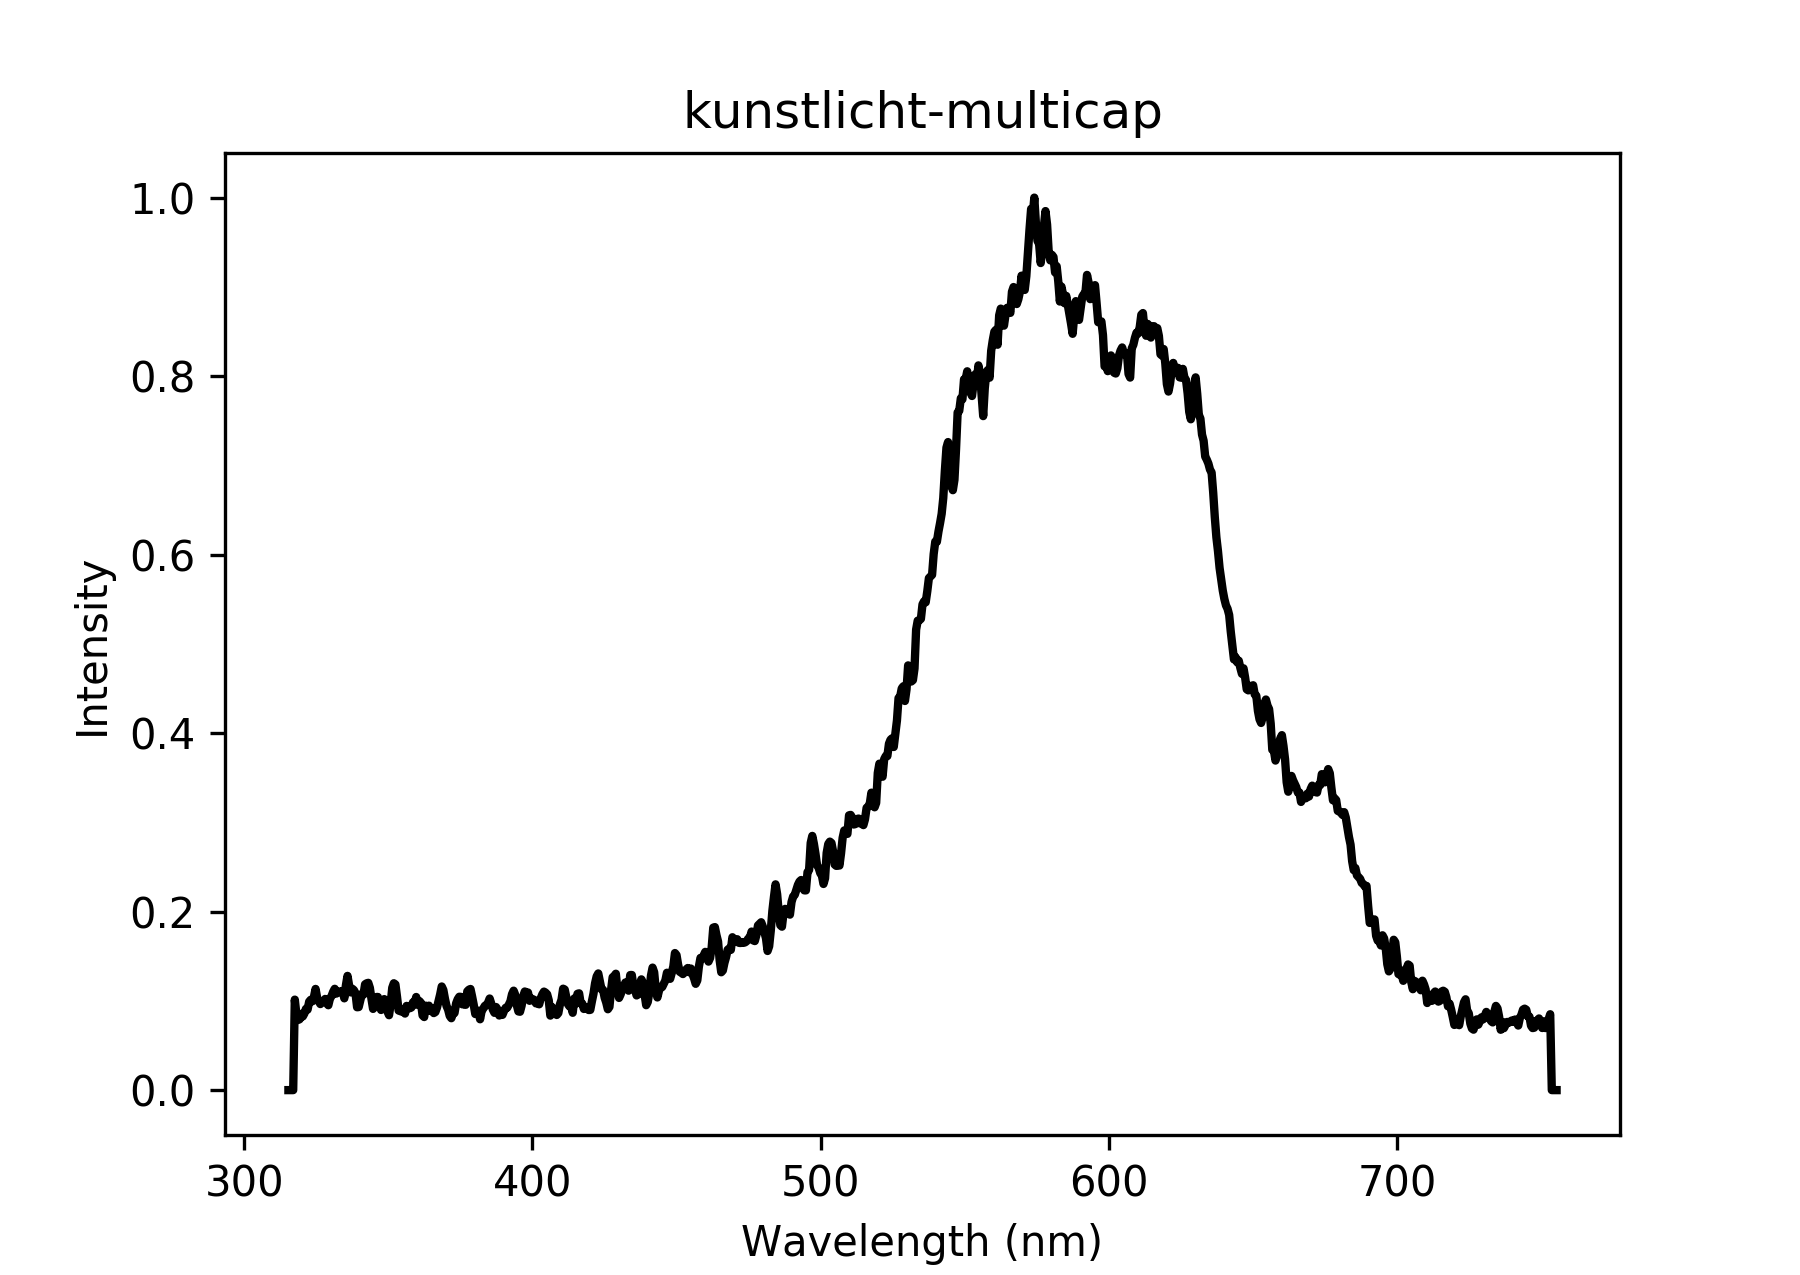
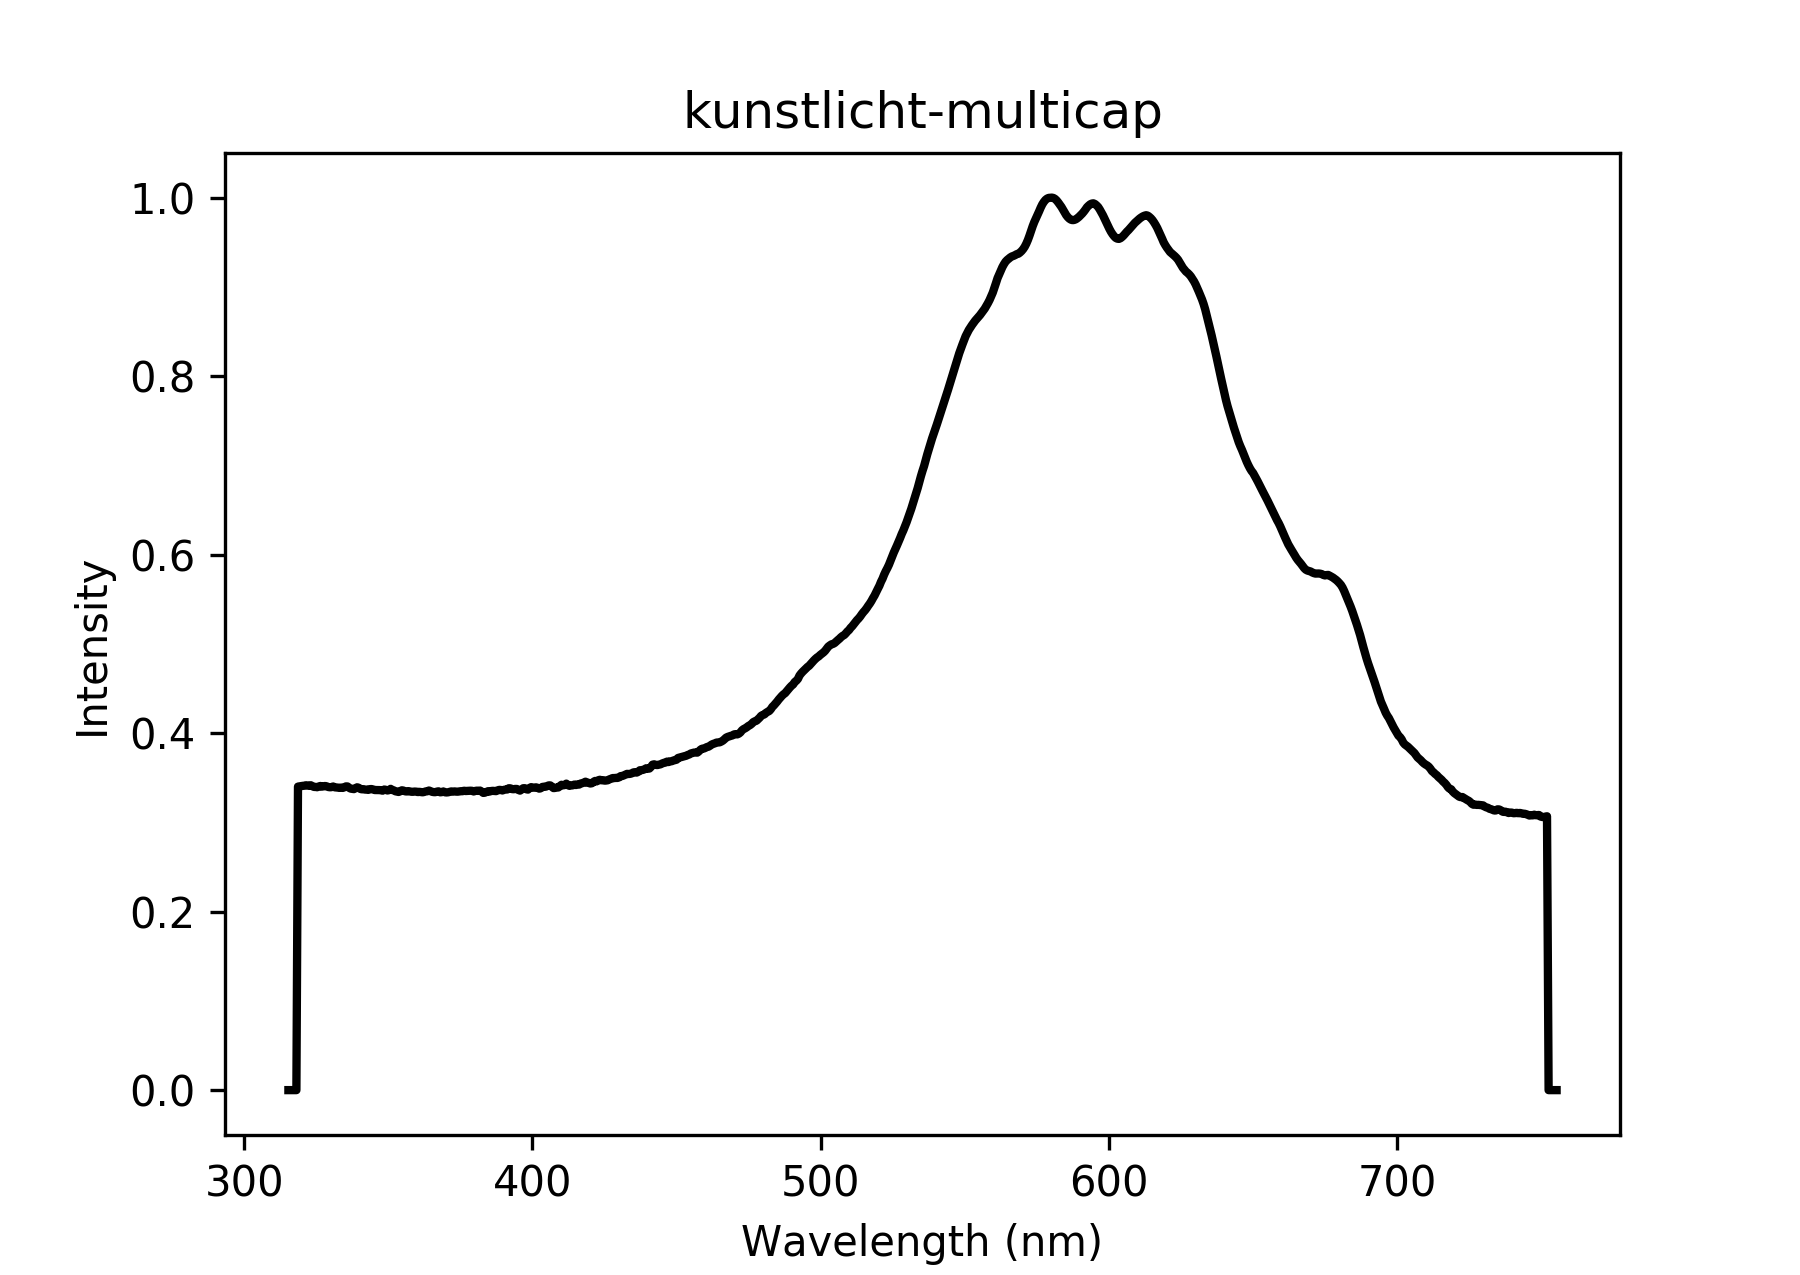
fized merge bug

diff --git a/_painter.py b/_painter.py
@@ -52,7 +52,7 @@ class Painter:
         violet = [0, 0, 350, 470] # actually red
         blue = [0, 0, 483, 590]
         green = [420, 497, 608, 710]
-        red = [520, 612, 780, 0]
+        red = [520, 612, 780, 1200]
 
         R = self._getValue(wavelength, violet) + self._getValue(wavelength, red)
         G = self._getValue(wavelength, green)
@@ -61,7 +61,7 @@ class Painter:
         # general intensity correction
         # lowintensity -> 1 -> 1 -> lowintensity
         lowintensity = 0.3
-        intensity = [350, 420, 680, 780]
+        intensity = [300, 400, 700, 830]
         correction = self._getIntensity(wavelength, intensity, lowintensity)
 
         # color correction for non linerarities

diff --git a/_spectrum.py b/_spectrum.py
@@ -22,10 +22,14 @@ class Spectrum:
 
     def setSpectrumimg(self, img):
         self.dirty = True
-        self.spectrumimg = img
+        height, width = img.shape[:2]
+        self.spectrumimg = np.zeros((height, width, 3), dtype = int)
+        self.spectrumimg += img
 
     def mergeSpectrumimg(self, img):
         self.dirty = True
+        if self.spectrumimg is None:
+            raise ValueError("Trying to merge to uninitialized image")
         self.spectrumimg += img
 
     def getSpectrumimg(self):

diff --git a/_collapser.py b/_collapser.py
@@ -48,7 +48,7 @@ class Collapser:
         # due to the threshold we eliminate noise
         signalmin = min(firstrow)
         signalmax = max(firstrow)
-        signalThreshold = signalmin + (signalmax - signalmin) * 0.75
+        signalThreshold = signalmin + (signalmax - signalmin) * 0.5
 
         dmin = 100000000000
         dminpos = -1

diff --git a/analyzer.py b/analyzer.py
@@ -9,9 +9,11 @@ from _collapser import Collapser
 
 
 def run():
+    # todo : echt calibreren op 589 nm lijn keukenzout in kaarslicht
+
     s = Spectrum("kunstlicht-multicap")
 
-    Capturer(s).capture(5) # multicapture parameter
+    Capturer(s).capture(25) # multicapture parameter
 
     Collapser(s).collapse()
 
